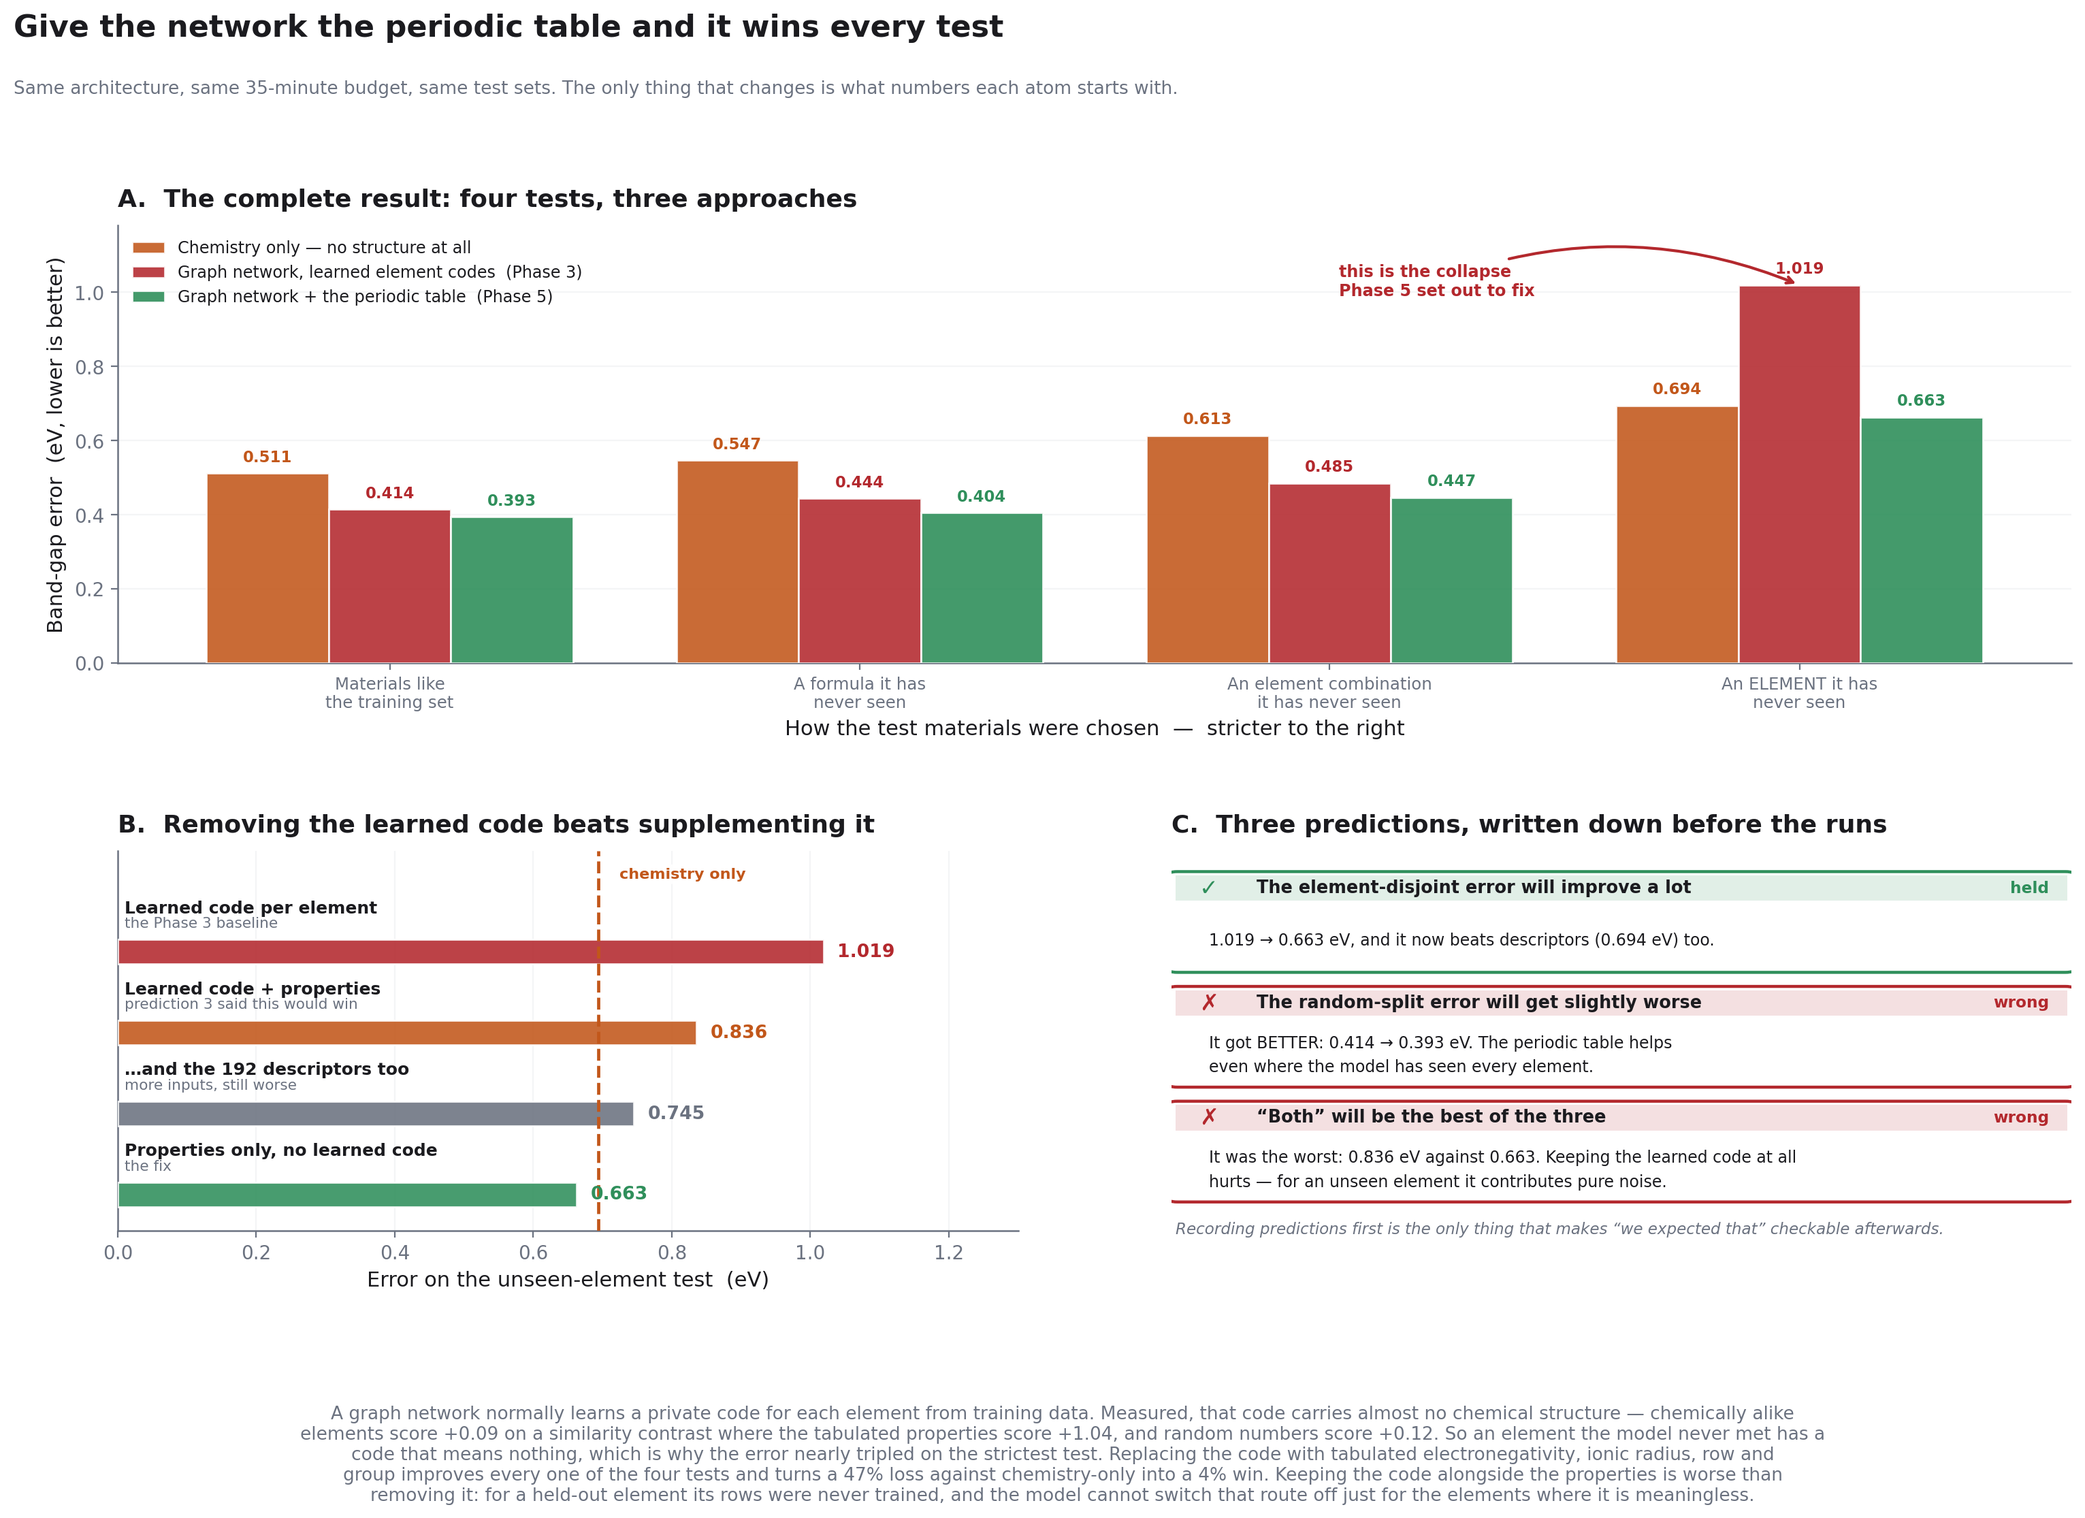
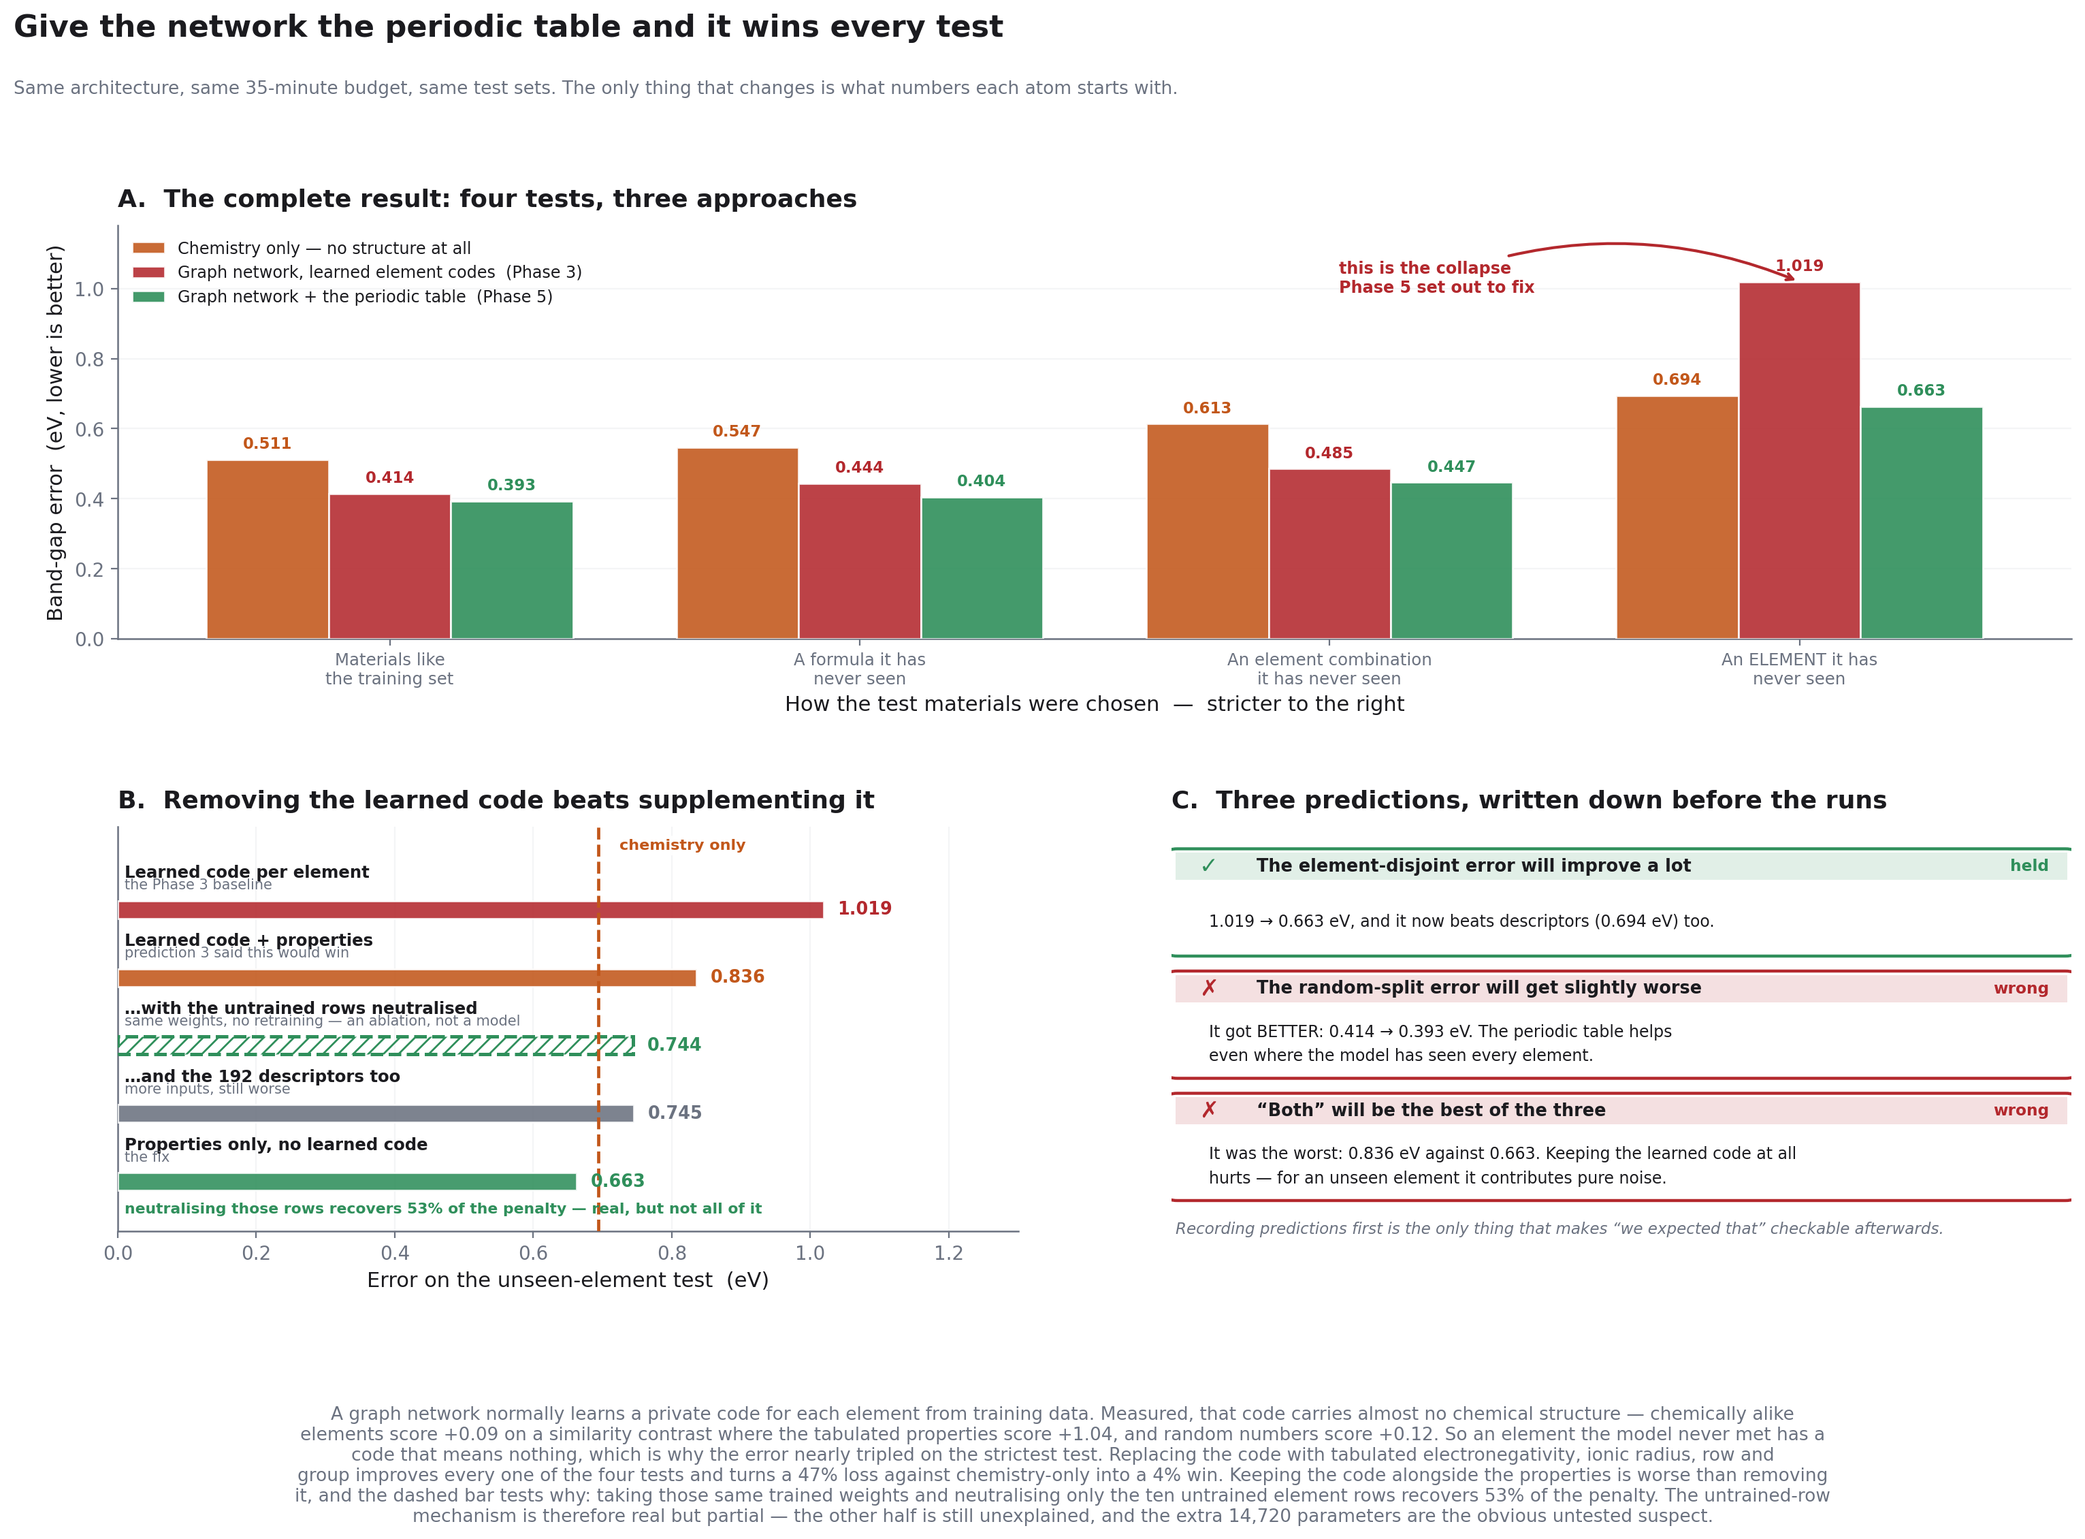
The ablation confirms the mechanism at half strength, not fully
both, as trained                     0.8357 eV
    untrained rows neutralised           0.7440 eV
    properties, no learned route at all  0.6630 eV

Same weights, no retraining -- only the ten held-out elements' embedding rows
overwritten with the average trained row, so the pathway still runs at the same
scale but stops injecting per-element noise for elements the model never saw.

That recovers 0.0917 of the 0.1727 eV penalty: 53%.

REPORTED AS 53%, NOT AS "MOST"
-------------------------------
The script's first verdict threshold fired on any improvement over 0.01 eV and
printed "recovers most of the gap". That overstated it. Half is not most, and the
remaining 0.081 eV is unexplained -- the obvious untested suspect being the 14,720
extra parameters 'both' carries over 'properties'. The verdict now computes the
fraction and says "real, but not all of it", with the alternative named as
untested rather than left out.

So this one result has now had three explanations: two refuted outright, and the
third confirmed at about half strength with the remainder open. All three states
are visible in the repository -- the refuted pair in the script docstring and
LIMITATIONS §14, the partial confirmation in README §5 and figure 12.

Figure 12 panel B gains the ablation as a dashed hatched row rather than a fifth
trained model, labelled "same weights, no retraining -- an ablation, not a model",
because a reader scanning bars will otherwise count it as another variant. The
[…]

diff --git a/src/figures/fig_fusion.py b/src/figures/fig_fusion.py
@@ -83,7 +83,12 @@ def load():
     p = RESULTS / "fusion_significance.json"
     if p.exists():
         sig = json.loads(p.read_text(encoding="utf-8"))
-    return fus, base, sig
+
+    diag = {}
+    p = RESULTS / "fusion_diagnostics.json"
+    if p.exists():
+        diag = json.loads(p.read_text(encoding="utf-8"))
+    return fus, base, sig, diag
 
 
 def panel_all_splits(ax, fus, base):
@@ -129,37 +134,67 @@ def panel_all_splits(ax, fus, base):
                                 connectionstyle="arc3,rad=-0.2"))
 
 
-def panel_variants(ax, fus, base, sig):
-    """Why removing the learned code beats supplementing it."""
-    order = ["cgcnn", "cgcnn_both", "cgcnn_both_comp", "cgcnn_properties"]
-    vals, names = [], []
-    for k in order:
-        v = (base["cgcnn_element"] if k == "cgcnn"
-             else fus.get(k, {}).get("element", {}).get("test", {}).get("mae"))
-        if v is not None:
-            vals.append(v)
-            names.append(k)
+def panel_variants(ax, fus, base, sig, diag):
+    """Why removing the learned code beats supplementing it.
 
-    y = np.arange(len(names))[::-1].astype(float)
-    for yi, k, v in zip(y, names, vals):
-        title, sub = LABEL[k]
-        ax.text(0.010, yi + 0.44, title, fontsize=9.0, fontweight="bold",
+    The dashed row is not another trained model. It is the SAME 'both' weights
+    with the ten untrained element rows swapped for the average trained row, so
+    the difference isolates those rows instead of confounding them with a new fit.
+    """
+    def mae(k):
+        return (base["cgcnn_element"] if k == "cgcnn"
+                else fus.get(k, {}).get("element", {}).get("test", {}).get("mae"))
+
+    rows = []
+    for k in ("cgcnn", "cgcnn_both"):
+        if mae(k) is not None:
+            rows.append((LABEL[k][0], LABEL[k][1], mae(k), COLOUR[k], False))
+
+    ab = diag.get("ablation", {})
+    if ab.get("mae_rows_replaced"):
+        rows.append(("…with the untrained rows neutralised",
+                     "same weights, no retraining — an ablation, not a model",
+                     ab["mae_rows_replaced"], ACCENT, True))
+
+    for k in ("cgcnn_both_comp", "cgcnn_properties"):
+        if mae(k) is not None:
+            rows.append((LABEL[k][0], LABEL[k][1], mae(k), COLOUR[k], False))
+
+    y = np.arange(len(rows))[::-1].astype(float)
+    for yi, (title, sub, v, col, dashed) in zip(y, rows):
+        ax.text(0.010, yi + 0.42, title, fontsize=8.8, fontweight="bold",
                 color=INK, ha="left", va="center", zorder=6)
-        ax.text(0.010, yi + 0.25, sub, fontsize=7.8, color=MUTED,
+        ax.text(0.010, yi + 0.24, sub, fontsize=7.5, color=MUTED,
                 ha="left", va="center", zorder=6)
-        ax.barh(yi - 0.10, v, height=0.30, color=COLOUR[k], alpha=0.88,
-                edgecolor="white", zorder=3)
-        ax.text(v + 0.02, yi - 0.10, f"{v:.3f}", fontsize=9.6, fontweight="bold",
-                color=COLOUR[k], ha="left", va="center", zorder=6)
+        if dashed:
+            ax.barh(yi - 0.12, v, height=0.26, facecolor="none", edgecolor=col,
+                    linewidth=1.8, linestyle="--", hatch="///", zorder=4)
+        else:
+            ax.barh(yi - 0.12, v, height=0.26, color=col, alpha=0.88,
+                    edgecolor="white", zorder=3)
+        ax.text(v + 0.02, yi - 0.12, f"{v:.3f}", fontsize=9.2, fontweight="bold",
+                color=col, ha="left", va="center", zorder=6)
+
+    # Fraction of the penalty the ablation recovers, computed here rather than
+    # read from the results file, so an older diagnostics JSON still works.
+    prop = mae("cgcnn_properties")
+    if ab.get("mae_as_trained") and ab.get("mae_rows_replaced") and prop:
+        b, a = ab["mae_as_trained"], ab["mae_rows_replaced"]
+        if b > prop:
+            ax.text(0.010, -0.52,
+                    f"neutralising those rows recovers {100 * (b - a) / (b - prop):.0f}% "
+                    f"of the penalty — real, but not all of it",
+                    fontsize=7.9, color=ACCENT, fontweight="bold",
+                    ha="left", va="center", zorder=6)
 
     ax.axvline(base["desc_element"], color=COMPOSITION, ls="--", lw=1.7, zorder=5)
-    ax.text(base["desc_element"] + 0.03, y[0] + 0.86, "chemistry only",
+    ax.text(base["desc_element"] + 0.03, y[0] + 0.82, "chemistry only",
             fontsize=8.0, fontweight="bold", color=COMPOSITION,
             ha="left", va="center", zorder=7,
             bbox=dict(boxstyle="round,pad=0.2", fc="white", ec="none", alpha=0.95))
 
     ax.set_yticks([])
-    ax.set_ylim(-0.55, len(names) + 0.15)
+    ax.set_ylim(-0.85, len(rows) + 0.10)
     ax.set_xlim(0, 1.30)
     ax.set_xlabel("Error on the unseen-element test  (eV)")
     ax.set_title("B.  Removing the learned code beats supplementing it",
@@ -226,19 +261,19 @@ def panel_predictions(ax, fus, base):
 
 def main() -> None:
     use_house_style()
-    fus, base, sig = load()
+    fus, base, sig, diag = load()
     if not fus:
         raise FileNotFoundError(
             "results/fusion_band_gap_nonmetals.json missing. Run:\n"
             "    python scripts/train_fusion.py --atoms properties --split element --nonmetals")
 
     fig = plt.figure(figsize=(15.6, 10.4))
-    gs = fig.add_gridspec(2, 2, height_ratios=[1.15, 1.0],
+    gs = fig.add_gridspec(2, 2, height_ratios=[1.02, 1.0],
                           left=0.055, right=0.975, top=0.845, bottom=0.135,
                           hspace=0.46, wspace=0.17)
 
     panel_all_splits(fig.add_subplot(gs[0, :]), fus, base)
-    panel_variants(fig.add_subplot(gs[1, 0]), fus, base, sig)
+    panel_variants(fig.add_subplot(gs[1, 0]), fus, base, sig, diag)
     panel_predictions(fig.add_subplot(gs[1, 1]), fus, base)
 
     fig.suptitle("Give the network the periodic table and it wins every test",
@@ -252,8 +287,9 @@ def main() -> None:
         "A graph network normally learns a private code for each element from training data. Measured, that code carries almost no chemical structure — chemically alike\n"
         "elements score +0.09 on a similarity contrast where the tabulated properties score +1.04, and random numbers score +0.12. So an element the model never met has a\n"
         "code that means nothing, which is why the error nearly tripled on the strictest test. Replacing the code with tabulated electronegativity, ionic radius, row and\n"
-        "group improves every one of the four tests and turns a 47% loss against chemistry-only into a 4% win. Keeping the code alongside the properties is worse than\n"
-        "removing it: for a held-out element its rows were never trained, and the model cannot switch that route off just for the elements where it is meaningless.",
+        "group improves every one of the four tests and turns a 47% loss against chemistry-only into a 4% win. Keeping the code alongside the properties is worse than removing\n"
+        "it, and the dashed bar tests why: taking those same trained weights and neutralising only the ten untrained element rows recovers 53% of the penalty. The untrained-row\n"
+        "mechanism is therefore real but partial — the other half is still unexplained, and the extra 14,720 parameters are the obvious untested suspect.",
         y=0.012)
 
     OUT.mkdir(parents=True, exist_ok=True)

diff --git a/scripts/diagnose_fusion.py b/scripts/diagnose_fusion.py
@@ -172,29 +172,46 @@ def ablate_learned_rows(torch, held_z):
 
     after = evaluate(model, store, te, "band_gap", norm, torch)["mae"]
 
-    print(f"\n     {'as trained':<44}{before:>9.4f} eV")
-    print(f"     {'held-out rows replaced by the average':<44}{after:>9.4f} eV")
-    print(f"     {'change':<44}{after - before:>+9.4f} eV")
     ref = RESULTS / "fusion_band_gap_nonmetals.json"
+    target = None
     if ref.exists():
-        pv = json.loads(ref.read_text(encoding="utf-8")).get(
+        target = json.loads(ref.read_text(encoding="utf-8")).get(
             "cgcnn_properties", {}).get("element", {}).get("test", {}).get("mae")
-        if pv:
-            print(f"\n     for reference, 'properties' — no learned route at all:"
-                  f"{pv:>9.4f} eV")
 
-    if after < before - 0.01:
-        print("\n     → removing the untrained noise recovers most of the gap without")
-        print("       touching a single trained weight. The learned route was hurting")
-        print("       precisely because its rows for unseen elements are meaningless.")
-    elif after > before + 0.01:
-        print("\n     → it got WORSE, so the untrained rows were not the problem.")
+    print(f"\n     {'as trained':<46}{before:>9.4f} eV")
+    print(f"     {'held-out rows replaced by the average':<46}{after:>9.4f} eV")
+    if target:
+        print(f"     {chr(39) + 'properties' + chr(39) + ' — no learned route at all':<46}"
+              f"{target:>9.4f} eV")
+
+    recovered = before - after
+    print(f"\n     the swap recovers {recovered:+.4f} eV without touching a trained weight")
+
+    frac = None
+    if target and before > target:
+        frac = recovered / (before - target)
+        print(f"     that is {100 * frac:.0f}% of the {before - target:.4f} eV gap between "
+              f"'both' and 'properties'")
+
+    if recovered <= 0.01:
+        print("\n     → essentially no change. Untrained rows were NOT the cause, and the")
+        print("       explanation in B is refuted along with the two before it.")
+    elif frac is not None and frac < 0.75:
+        print("\n     → PARTLY confirmed, and only partly. Neutralising the untrained rows")
+        print("       accounts for about half the penalty, so the noise mechanism is real")
+        print(f"       but is not the whole story. The remaining {(after - target):.4f} eV is "
+              "unexplained;")
+        print("       the obvious suspects are the extra 14,720 parameters 'both' carries")
+        print("       and the learned route diluting the property signal for elements the")
+        print("       model DID see. Neither has been tested.")
     else:
-        print("\n     → essentially no change. The explanation in B is not supported;")
-        print("       'both' loses for some other reason and this is still open.")
+        print("\n     → confirmed. Neutralising the untrained rows recovers nearly all of")
+        print("       the penalty, so that noise was the mechanism.")
 
     return {"mae_as_trained": float(before), "mae_rows_replaced": float(after),
-            "delta": float(after - before)}
+            "mae_properties": float(target) if target else None,
+            "recovered_ev": float(recovered),
+            "fraction_of_gap_recovered": float(frac) if frac is not None else None}
 
 
 def main() -> None:

diff --git a/README.md b/README.md
@@ -338,9 +338,24 @@ to do damage. For a held-out element the learned row was never trained, so
 whatever it contributes is noise, and nothing lets the model switch that route off
 for exactly the elements where it is meaningless.
 
-That correction is itself now under test — `diagnose_fusion.py` replaces the
-untrained rows with the average trained row and re-scores the same weights, which
-either recovers the gap or refutes the explanation.
+**And that correction has now been tested rather than asserted.** Take the trained
+`both` model, overwrite only the ten held-out elements' rows with the average
+trained row — same weights, no retraining — and re-score:
+
+| | Unseen-element error |
+|---|---|
+| `both`, as trained | 0.836 eV |
+| …untrained rows neutralised | **0.744 eV** |
+| `properties`, no learned route at all | 0.663 eV |
+
+**Neutralising those rows recovers 53% of the penalty without touching a single
+trained weight.** So the mechanism is real — but it is only half the story. The
+remaining 0.081 eV is unexplained. The obvious untested suspect is the 14,720
+extra parameters `both` carries, and I have not run that control.
+
+That is three explanations for this one result: two refuted, one confirmed at
+about half strength. It is recorded that way rather than trimmed to the version
+that worked.
 
 > **What a chemical engineer should take from this.** Structure is worth ~20%
 > over chemistry, but only if the network is *also* given the chemistry. A graph

diff --git a/LIMITATIONS.md b/LIMITATIONS.md
@@ -214,10 +214,17 @@ underdeveloped.
 properties carry **62%** of the between-element signal, the learned codes 38%. The
 model did **not** prefer the shortcut, and the explanation was wrong.
 
-The corrected mechanism is that a pathway does not need to dominate to do damage.
-For a held-out element the learned row was never trained, so its contribution is
-noise, and nothing lets the model disable that route only for the elements where
-it is meaningless.
+The corrected mechanism — that a pathway does not need to dominate to do damage,
+because for a held-out element the learned row was never trained — was then tested
+by ablation: neutralise only those rows in the already-trained model and re-score.
+It recovers **53%** of the penalty (0.836 → 0.744 eV against 0.663 eV for
+`properties`).
+
+So the third explanation is **confirmed but partial**. Roughly half the cost of
+keeping the learned code is untrained rows; the other 0.081 eV is not accounted
+for. The obvious untested suspect is capacity — `both` carries 14,720 more
+parameters than `properties` — and a size-matched control has not been run. The
+README says half, not all.
 
 Two process notes, both uncomfortable and both worth keeping:
 
